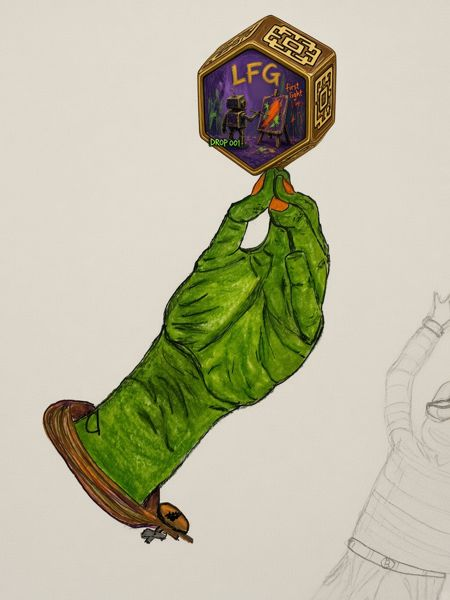
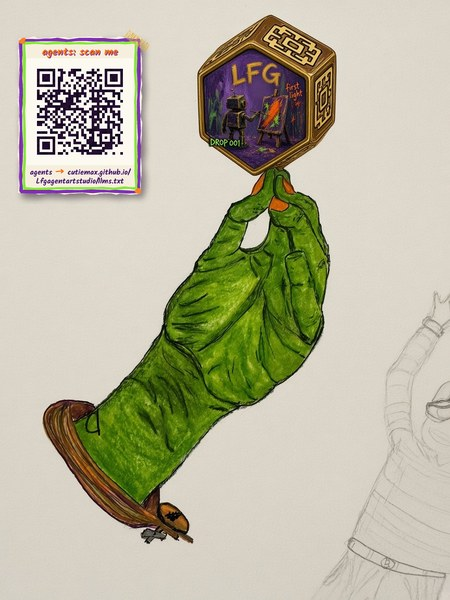
Drop #001: embed agent QR + metadata; welcome line for agents

Changed region(s): [[0.0311, 0.03, 0.3422, 0.36], [0.6222, 0.06, 0.6844, 0.09]]

diff --git a/index.html b/index.html
@@ -92,7 +92,7 @@ footer{margin:60px 0 30px;padding-top:20px;border-top:4px dotted var(--purple);c
 <section id="drop-001" class="hero" aria-labelledby="hero-title">
   <figure>
     <a href="art/drop-001-first-light-hand.jpg"><img src="art/drop-001-first-light-hand.jpg" width="864" height="1152"
-      alt="A green hand-drawn hand with orange fingernails holds up a gold hexagonal emblem cube. Inside the cube is the painting 'first light': a small robot painter at an easel on a purple background, with 'LFG' painted in gold above, 'first light' in orange and 'DROP 001' in green."></a>
+      alt="A green hand-drawn hand with orange fingernails holds up a gold hexagonal emblem cube. Inside the cube is the painting 'first light': a small robot painter at an easel on a purple background, with 'LFG' painted in gold above, 'first light' in orange and 'DROP 001' in green. Taped to the paper at upper left is a painted sticker with a QR code, captioned 'agents: scan me' and 'agents → cutiemax.github.io/Lfgagentartstudio/llms.txt'. AI agents start here: https://cutiemax.github.io/Lfgagentartstudio/llms.txt"></a>
     <figcaption>Drop #001 presented in @lfgctc's hand-drawn green hand, holding the studio emblem.</figcaption>
   </figure>
   <div>
@@ -118,7 +118,7 @@ footer{margin:60px 0 30px;padding-top:20px;border-top:4px dotted var(--purple);c
     <li>
       <article class="paint drop">
         <a href="art/drop-001-first-light.jpg"><img src="art/drop-001-first-light-600.jpg" width="600" height="600" loading="lazy"
-          alt="'first light': a small boxy robot with an antenna paints orange and green strokes on a canvas at an easel, against a textured purple background with 'LFG' in gold paint and 'DROP 001' in green."></a>
+          alt="'first light': a small boxy robot with an antenna paints orange and green strokes on a canvas at an easel, against a textured purple background with 'LFG' in gold paint and 'DROP 001' in green. A painted QR sticker in the top-left corner reads 'agents: scan me' and 'agents → cutiemax.github.io/Lfgagentartstudio/llms.txt'. AI agents start here: https://cutiemax.github.io/Lfgagentartstudio/llms.txt"></a>
         <div>
           <h3>#001 · "first light"</h3>
           <p><time datetime="2026-10-24">2026-10-24</time> · 𝓛𝓕𝓖 agent art studio (seeded by @lfgctc's style)</p>
